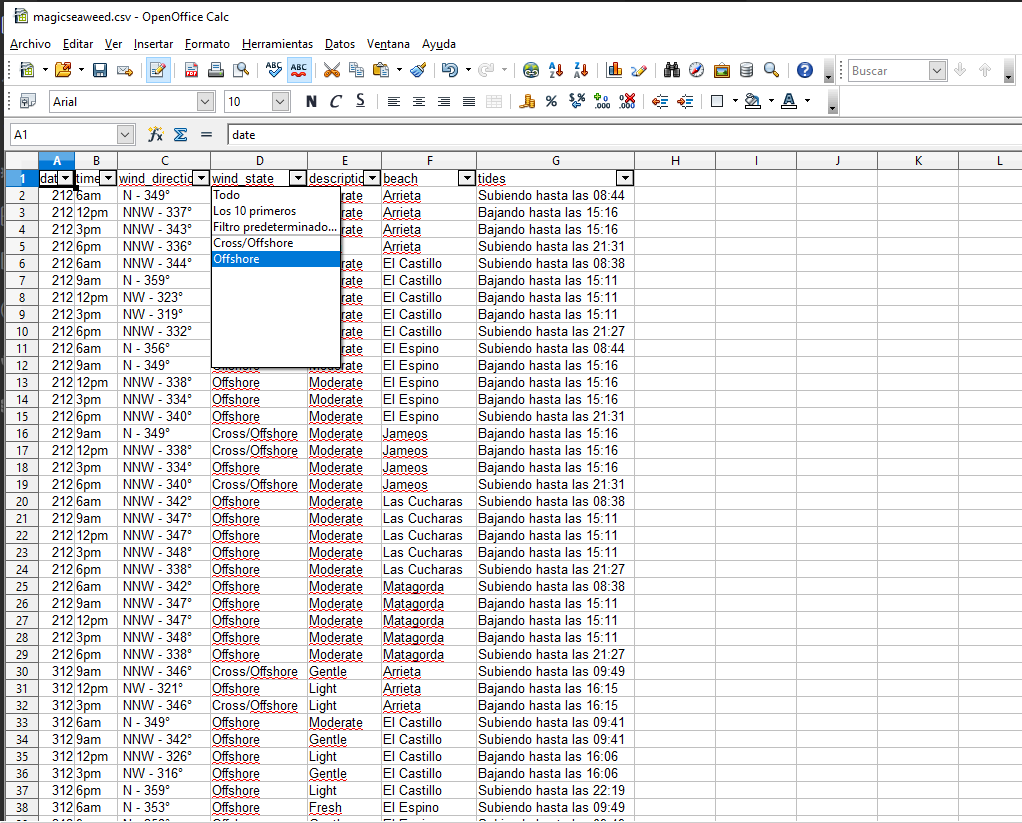
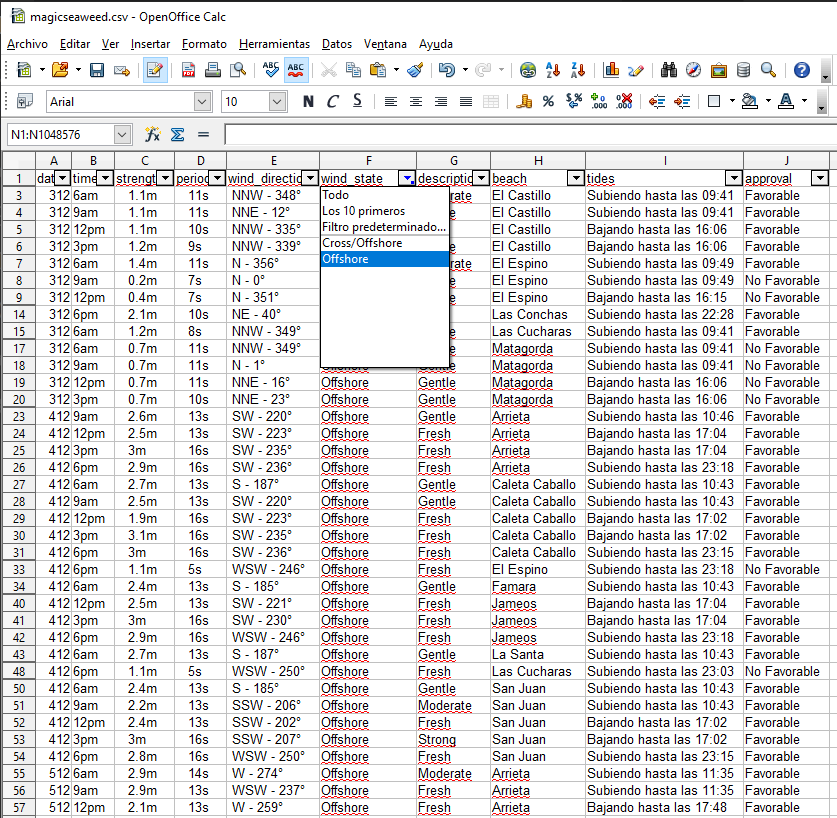
adding strength, period and approval column with conditions, update readme.md

diff --git a/utils.py b/utils.py
@@ -1,4 +1,4 @@
-import os, pandas as pd
+import os, pandas as pd, numpy as np
 from typing import Dict
 from datetime import datetime, timedelta
 
@@ -23,20 +23,6 @@ def forecast_to_df(dict: Dict) -> pd.DataFrame:
     df = pd.DataFrame(dict)
 
     return df
-
-
-def add_days_to_forecast(forecast):
-    time_list = forecast['time']
-    days_list = []
-    date = datetime.now()
-    for index, time in enumerate(time_list):
-        if time == "AM" and index != 0:
-            date += timedelta(days=1)
-            days_list.append(date.strftime("%d-%m, %A"))
-        else:
-            days_list.append(date.strftime("%d-%m, %A"))
-    forecast['days'] = days_list
-    return forecast
 
 
 def add_beach_to_forecast(forecast, beach):
@@ -82,7 +68,7 @@ def get_tide_info_list(tide_info):
     for element in joined_list:
         if element in tide_info:
             status = not status
-            
+
         if element in tide_list:
             i += 1
         if i < len(tide_list):
@@ -106,6 +92,30 @@ def get_tide_info_list(tide_info):
     new_list = [element.split("-")[1] for element in new_list]
 
     return new_list
+
+
+def conditions(df: pd.DataFrame) -> pd.DataFrame:
+    strength = df["strength"].str.replace('m', '').astype(float)
+    period = df["period"].str.replace('s', '').astype(float)
+
+    #STRENGTH
+    STRENGTH = ((strength > 1) & (strength < 3.5)) #2.5
+
+    #PERIOD
+    PERIOD = (period > 7)
+
+    favorable = (STRENGTH & PERIOD)
+
+    default = "No Favorable"
+
+    str_list = ["Favorable"]
+
+    df["approval"] = np.select(
+        [favorable],
+        str_list,
+        default=default,
+    )
+    return df
 
 
 def format_tide(tide):
@@ -136,6 +146,8 @@ def format_dataframe(df):
                                                         expand=True)
     df['wind_state'] = df.wind_state.apply(lambda s: (s + 'shore').strip())
 
+    df = conditions(df)
+
     df = df.drop(df[(df["wind_state"] != "Offshore")
                     & (df["wind_state"] != "Cross/Offshore")].index)
 
@@ -143,8 +155,8 @@ def format_dataframe(df):
                     (df["time"] == "3am")].index)
 
     df = df[[
-        "date", "time", "wind_direction", "wind_state", "description", "beach",
-        "tides"
+        "date", "time", "strength", "period", "wind_direction", "wind_state",
+        "description", "beach", "tides", "approval"
     ]]
     df.sort_values(by=["date", "beach"], inplace=True, ascending=[True, True])
 

diff --git a/msw_scraper.py b/msw_scraper.py
@@ -4,6 +4,7 @@ from bs4 import BeautifulSoup
 
 import utils
 
+
 class MSWScraper(object):
 
     def __init__(self):
@@ -23,7 +24,6 @@ class MSWScraper(object):
         return False
 
     def prepare_site(self):
-        #self.driver.get(url)
         all_iframes = self.driver.find_elements(By.TAG_NAME, "iframe")
         if len(all_iframes) > 0:
             self.driver.execute_script("""
@@ -35,7 +35,14 @@ class MSWScraper(object):
                                 """)
 
     def scrape(self):
-        forecast = {"date": [], "time": [], "wind_state": [], "tides": []}
+        forecast = {
+            "date": [],
+            "time": [],
+            "wind_state": [],
+            "tides": [],
+            "strength": [],
+            "period": []
+        }
         if self.page_is_loaded():
             s = BeautifulSoup(self.driver.page_source, "html.parser")
             table = s.find(
@@ -71,6 +78,13 @@ class MSWScraper(object):
                             ]:
                                 forecast["wind_state"].append(
                                     cell['data-original-title'])
+
+                            elif class_cell == "text-center background-gray-lighter":
+
+                                if "m" in cell.text:
+                                    forecast["strength"].append(cell.text)
+                                elif "s" in cell.text:
+                                    forecast["period"].append(cell.text)
 
                         if 'class' in row.attrs:
                             class_row = " ".join(row['class']).strip()

diff --git a/main.py b/main.py
@@ -2,6 +2,7 @@ import utils
 import warnings
 warnings.filterwarnings('ignore')
 from halo import Halo
+
 if __name__ == "__main__":
     urls = [{
         "beach":
@@ -55,4 +56,4 @@ if __name__ == "__main__":
     df = utils.scrape_multiple_sites(urls)
     df= utils.format_dataframe(df)
     utils.df_to_csv("magicseaweed.csv", df)
-    spinner.stop_and_persist(text=('Check the CSV file (👀📝) and have a good surfing 🏄!').encode('utf-8'))
+    spinner.stop_and_persist(text=('Check the CSV file (👀📝), have a good surfing 🏄 and respect the sea 🌊!').encode('utf-8'))

diff --git a/README.md b/README.md
@@ -1,8 +1,8 @@
-# MAGICSEAWEED
+# 🌊 MAGICSEAWEED
 
 Automation script that helps me in the task of interpreting when there are waves, scraping data from multiple magicseaweed sites (with threads) from the spots at the same time.
 
-# steps to put this to work:
+# 🏄 steps to put this to work:
 
 Asure you have selenium and google chrome installed on your linux machine.
 
@@ -14,10 +14,11 @@ Asure you have selenium and google chrome installed on your linux machine.
 4. ```asure you downloaded google chrome and chromedriver, and chromedriver its on path```
 5. ```python main.py```
 
-At the end, it will generate a text file (magicseaweed.csv), where you can see all the conditions.
+📝 At the end, it will generate a text file (magicseaweed.csv), where you can see all the conditions and filter them by the desired ones.
+Personally, the conditions that I consider favorables are the following: The wind_state parameter, I want it to be off-shore, additionally I look that the period is higher than 7s and strength is greater than 1m and less than ~2.5.
 
 ![CSV result](static/result.png?raw=true "CSV result")
 
 This project is still under construction
 
-If you enjoyed this project, I will be so much pleased if you give me a star.
+If you enjoyed this project, I will be so much pleased if you give me a star (⭐).
